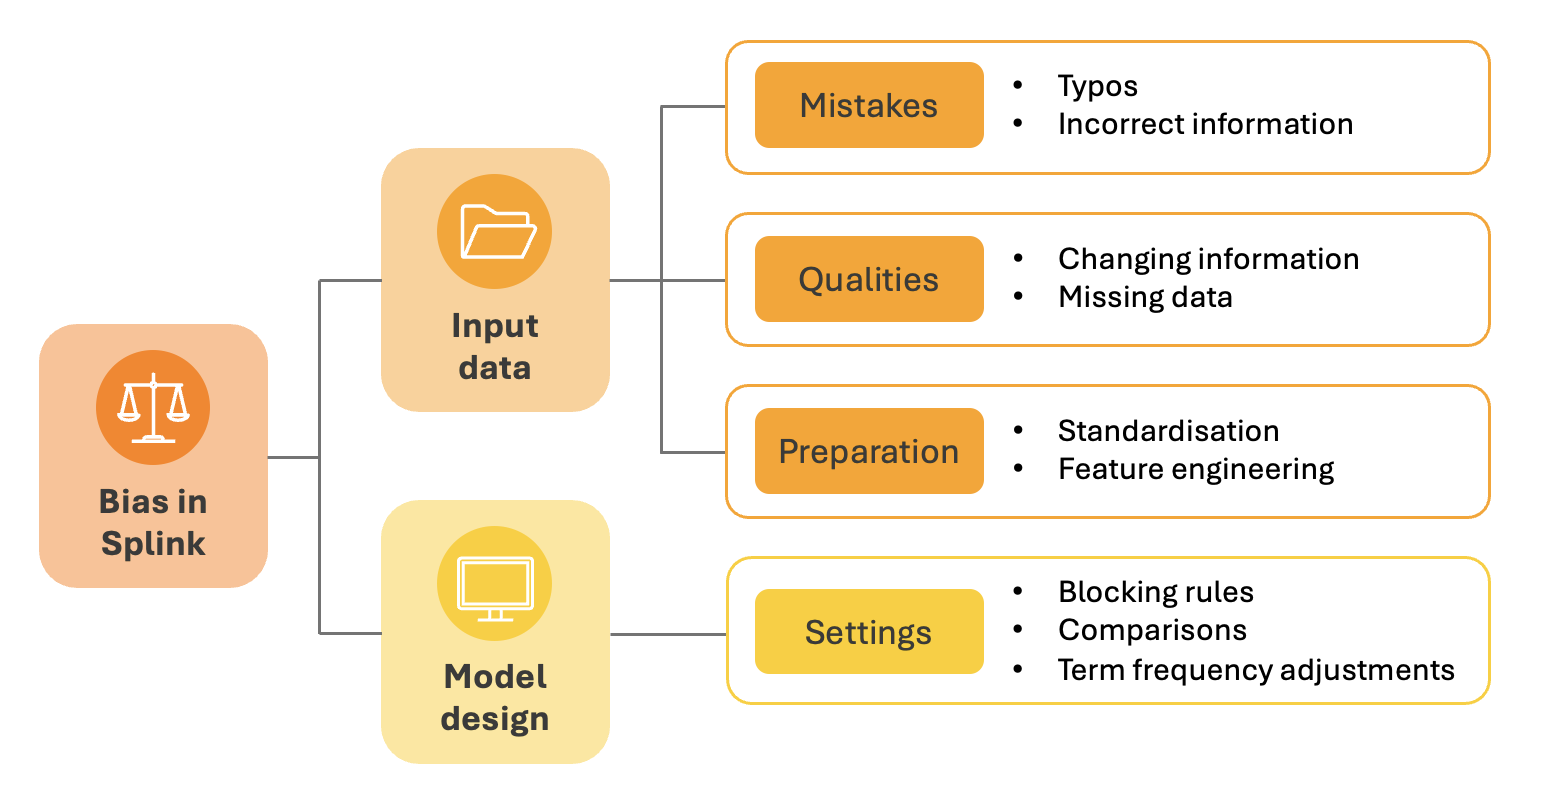
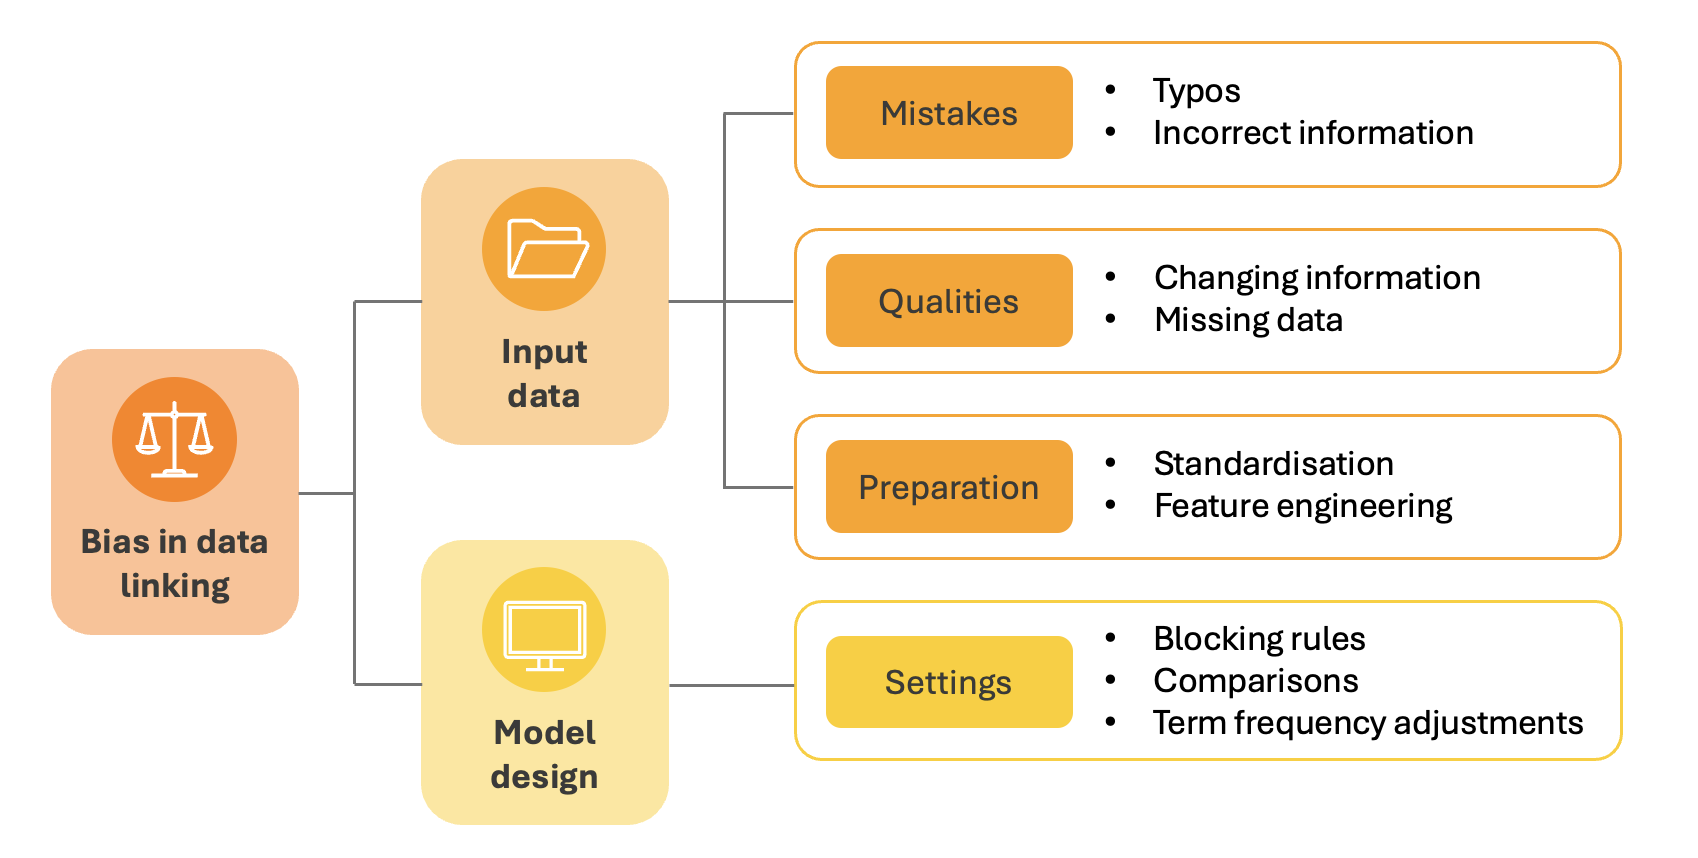
final edits

diff --git a/docs/blog/posts/2024-07-11-bias.md b/docs/blog/posts/2024-07-11-bias.md
@@ -6,7 +6,7 @@ categories:
   - Bias
 ---
 
-# Bias in Data Linking:<br>_Progress and next steps_
+# Bias in Data Linking
 
 In March 2024, the Splink team launched a six-month _'Bias in Data Linking'_ internship with the [Alan Turing Institute](https://www.turing.ac.uk). This installment of the Splink Blog is going to introduce the internship, its goals, and provide an update on what's happened so far.
 
@@ -22,42 +22,41 @@ Data science pipelines are intricate processes with lots of decision points. At 
 
 ## 🎯 Goals
 
-To set project goals, experts were consulted and relevant materials were reviewed. The overarching aim of the internship was to create something practical for users and developers to assess bias.
+To set the direction for the internship, it was useful to first define what a successful outcome would look like. 
 
-While ideas on how exactly to achieve this varied, the general consensus was for a standardised framework to facilitate this assessment. This framework should help users with two processes:
+Many users and developers of data linking pipelines have ideas about where bias _might_ be entering their pipeline, but they aren’t always sure _how_ to evaluate this bias or understand its impact. So, the goal was to create a **standardised framework for evaluating bias** that’s structured in approach but adaptable to different use cases.
 
-1. Identify potential **sources** of bias in a linkage pipeline.
-2. Evaluate the **impact** of bias on the linked data. 
+Before developing this framework, it was useful to look at different types and sources of bias in data linking pipelines. This helped provide real-life examples, so assessing the suitability of an evaluation method had practical context.
 
-Before developing the framework, it was crucial to think about the best approach for these processes. 
+## 🔍 Sources of bias
 
-## 🔍 Identifying the source
+From talking with experts and reviewing relevant materials, it was clear that there were already hypotheses about where bias might enter a data linking pipeline. 
 
-Identifying bias sources in data linking varies by use case, making standardisation difficult. However, flexible guidelines can aid this process. To explore this, it was useful to identify general ways bias can enter a data linking pipeline:
+These hypotheses were reviewed and grouped into broad categories, highlighting the key areas for evaluation:
 
 ![Image 1](./img/bias_chart.png)
 
-The **input data** can contain mistakes (misspellings of names), or legitimate qualities (changing names) which make some records harder to link than others. If these mistakes or qualities are not random, this means the input data will introduce bias. Addressing these mistakes or qualities through data preparation (character removal) can also introduce bias.
+The **input data** can contain mistakes or legitimate qualities which make some records harder to link than others. Addressing these mistakes or qualities through data preparation techniques can have the same effect. If this impact is not random, this means the input data will introduce bias.
 
-**Model design** involves specifying settings (which records to compare/how to compare them). If these design choices result in a better/worse performance for certain record types, bias will be introduced.
+**Model design** involves specifying settings that define which records to compare and how to compare them. If these design choices result in a better/worse performance for certain record types, bias will be introduced.
 
-This process can support a bias assessment framework by guiding users to explore their input data and model design choices. It helps lay the groundwork for evaluation by identifying interest areas to develop hypotheses about where bias occurs.
+Understanding these potential bias sources laid the groundwork for determining the most suitable evaluation method, providing examples of the types of issues that needed to be assessed.
 
-## 📊 Evaluating the impact 
+## 📊 Evaluating bias 
 
-Understanding the impact of bias requires a performance evaluation process for which there are several well-established strategies. For example using [charts](https://moj-analytical-services.github.io/splink/topic_guides/evaluation/model.html) to explore models, [metrics](https://moj-analytical-services.github.io/splink/topic_guides/evaluation/edge_metrics.html) to analyse links, and [clusters](https://moj-analytical-services.github.io/splink/topic_guides/evaluation/clusters/overview.html) to review the output data. 
+There are many ways to evaluate performance in data science, and a common approach is to create labelled data to assess model outcomes. In data linking, this means manually labeling comparisons as "link" or "non-link," running them through the pipeline, and then comparing the predicted results to these labels.
 
-To streamline the project, link-based evaluation was chosen. This allows for a standard approach of classifying record comparisons and analysing outcomes. Analysing overall performance is less valuable here. Instead, the hypothesis from the [identification](#🔍-identifying-the-source) process can be used pinpoint records of interest.
+This method can provide a general overview of performance. However, a more focussed approach is needed for assessing bias within the framework. To do this, it's important to identify specific records that align with the defined hypothesis. These might include records that represent mistakes, qualities, or preparation of the input data, or those affected by model design settings.
 
-The process would follow three steps:
+This method involves a three-step process. 
 
 ![Image 2](./img/process_flow.png)
 
-_Each step was investigated to uncover issues which could arise when attempting to evaluate bias..._
+Each step was reviewed to understand the considerations for evaluating bias...
 
 ### **Step 1: Hand label record comparisons**
 
-Firstly, records are labelled by human experts to decide if they relate to the same person, creating a 'true' sample of comparisons. This sample provides the base from which performance is analysed.
+Firstly, records are labelled by human experts to decide if they relate to the same person, creating a 'true' sample of comparisons. This sample provides the base from which performance is assessed.
 
 When working with real data, it's not always clear whether records relate to the same individual... 
 
@@ -65,46 +64,47 @@ When working with real data, it's not always clear whether records relate to the
 
 It can be difficult for even human evaluators to make these decisions, resulting in a lack of ground truth in the labels. In making this decision, further bias can be introduced. 
 
-### **Step 2: Locate records of interest**
+### **Step 2: Identify records**
 
-The second step is crucial for using performance evaluation to address bias. To find records of interest there are two main options, which will be demonstrated with the example of locating records with non-anglicised names:
+The second step is to focus the evaluation on bias by identifying records that represent the specific hypothesis. To find records of interest there are two main options, both of which have issues demonstrated by the following example: 
 
- <u>Using variables as proxies</u>  
-Using ethnicity/nationality as a proxy for name origin relies on both accurate data recording and a presumed link between the variable and name origin.
+_Bias is suspected enter a pipeline through data standardisation using an English trained phonetic algorithm. Records with non-English phonetic names must be identified for evaluation..._
 
-<u>Directly identifying features</u>  
-Creating a name origin detector. This depends on a robust theoretical and technical solution, which would be complex to develop and verify.
+1. Using variables as proxies
+    - Relies on accurate recording of the variable (e.g. ethnicity/nationality)
+    - Assumes a relationship between the variable and non-English name phonetics  
+2. Direct identification
+    - Relies on assumptions regarding name phonetic origin
+    - Requires complex technical solution which would be difficult to develop and verify.
 
-Both options are likely to introduce bias.
+Therefore, either option is likely to introduce further bias.
 
-### **Step 3: Assess the performance outcomes**
+### **Step 3: Assess the performance**
 
-The final step is to analyse performance outcome by comparing the labelled data with the pipeline’s predictions to spot errors (false positives and false negatives). 
+The final step is to assess performance outcomes by comparing the labelled data with the pipeline’s predictions. In bias evaluation, understanding where the model goes wrong is of particular interest (false positives and false negatives). 
 
 A high-level typical data linking performance may look like this:
 
 ![Image 4](./img/confusion_matrix_1.png)
 
-This represents the reality of the dominant class (non-links), leaving very few errors to evaluate. When analysing for bias, the focus would be on an even smaller subset of records of interest. 
+This represents the reality of the dominant class (non-links) in data linking, as most records which are compared will not relate to the same individual. This leaves very few errors to evaluate within a large sample of labels. When analysing for bias, the focus would be on an even smaller subset of records of interest. 
 
 A bias specific data linking performance may look like this:
 
 ![Image 5](./img/confusion_matrix_2.png)
 
-This reduces the number of examples further, making it hard to spot patterns or draw solid conclusions on where things go wrong.
+This further reduces the absolute number of examples, making it difficult to decide if there is bias and quantify its impact. 
 
-Getting enough useful examples is possible, but it’s impractical. It would require either dedicating a lot more resources to labelling or using a sampling method that could introduce bias.
+Getting enough useful examples is possible, but impractical. It would require either dedicating a lot of resources to labelling or using a sampling method that could introduce bias.
 
 ## 💡 Conclusions 
 
-The initial investigation into creating a bias assessment framework looked at how to identify and evaluate bias. Bias identification can be standardised by highlighting pipeline areas and giving examples to guide users in developing hypotheses. However, finding a solution for the evaluation process is trickier. A common evaluation method showed three main issues:
+The internship aims to develop a framework that helps users of data linking pipelines assess suspected bias. This first blog covers the initial steps taken to figure out what the evaluation process might look like.
+
+Looking into how a common approach handles bias evaluation in data linking uncovered three main issues:
 
 1. There is no 'ground truth' in labelling.
 2. Records of interest are difficult to identify.
 3. Gathering large samples of FPs and FNs is impractical.
 
-These challenges stem from working with real data and make this method unsuitable for the framework. We’re now looking into alternative evaluation approaches—**stay tuned for updates!**
-
-
-
-
+These challenges stem from working with real data and make this method unsuitable for the framework. We’re now looking into alternative evaluation approaches to develop the framework — **stay tuned for updates!**
